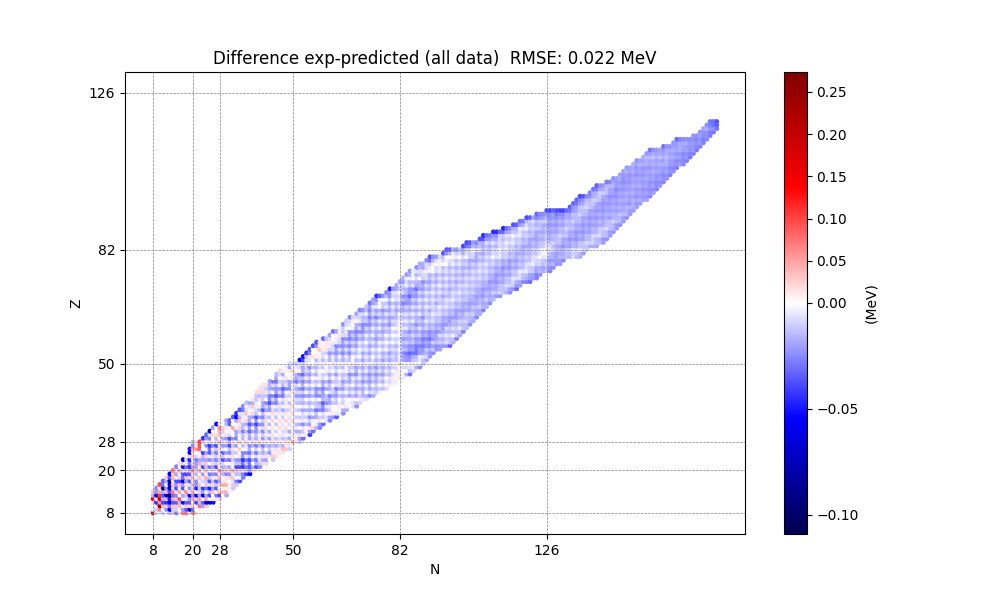
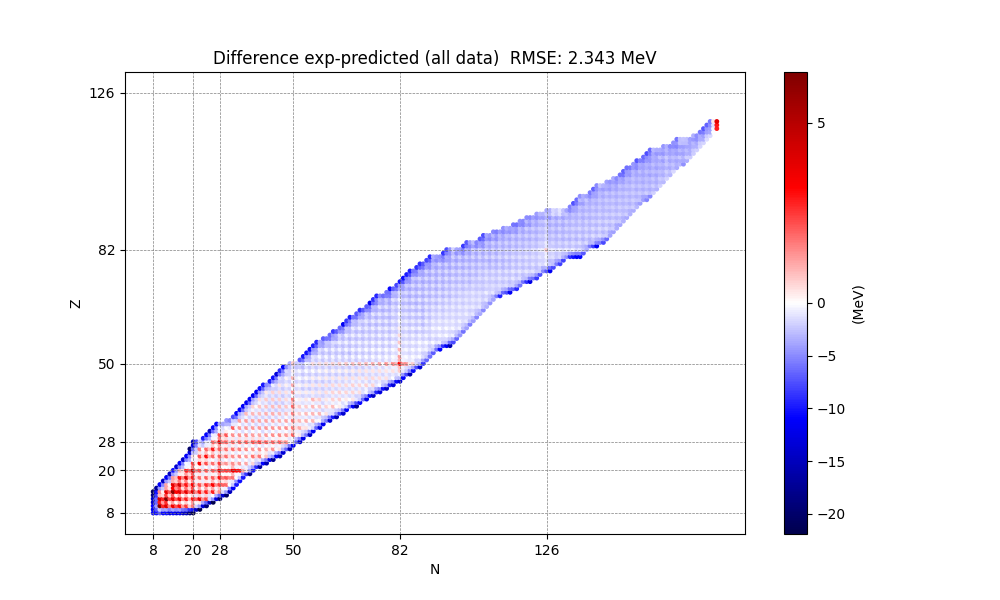
config.yaml created + nuclear masses plots when predicting

diff --git a/CNN-I3.py b/CNN-I3.py
@@ -8,17 +8,21 @@ import matplotlib.pyplot as plt
 from matplotlib.colors import TwoSlopeNorm
 from sklearn.model_selection import train_test_split
 from sklearn.model_selection import KFold
+import yaml
+
+with open('config.yaml', 'r') as file:
+    config = yaml.safe_load(file)
 
 device = torch.device('cuda' if torch.cuda.is_available() else 'cpu')
 print('Training on:', device)
 
-csv_file = 'data/mass2016_cleaned.csv'  
+csv_file = config['data']['csv_file'] 
 data = pd.read_csv(csv_file, delimiter=';')
-data_feature = 'bind_ene_total'
-num_epochs = 100000
-patience = 3000
-learning_rate = 0.002
-optimizer_name = 'Adamax'
+data_feature = config['data']['data_feature']
+num_epochs = config['training']['num_epochs']
+patience = config['training']['patience']
+learning_rate = config['training']['learning_rate']
+optimizer_name = config['training']['optimizer_name']
 
 
 def create_5x5_neighborhood(data, idx, data_feature):
@@ -71,14 +75,17 @@ targets_tensor = torch.tensor(np.array(targets), dtype=torch.float32).view(-1, 1
 
 indices = np.arange(len(data)) #Original indices in the Dataframe
 train_inputs, test_inputs, train_targets, test_targets, train_indices, test_indices = train_test_split(
-    inputs_tensor,targets_tensor, indices, test_size=0.3, shuffle=True, random_state=42)
+    inputs_tensor,targets_tensor, indices, test_size=config['data']['test_size'], shuffle=True,
+    random_state=config['general']['random_state'])
 
 
 class CNN_I3(nn.Module):
     def __init__(self):
         super(CNN_I3, self).__init__() #We initialize the nn.Module class
-        self.conv1 = nn.Conv2d(in_channels=3, out_channels=16, kernel_size=3, stride=1, padding=1) #Basic features
-        self.conv2 = nn.Conv2d(in_channels=16, out_channels=32, kernel_size=3, stride=1, padding=1) #More complex features
+        self.conv1 = nn.Conv2d(in_channels=3, out_channels=16, kernel_size=config['model']['conv1']['kernel_size'],
+                               stride=config['model']['conv1']['stride'], padding=config['model']['conv1']['padding']) #Basic features
+        self.conv2 = nn.Conv2d(in_channels=16, out_channels=32, kernel_size=config['model']['conv2']['kernel_size'],
+                               stride=config['model']['conv2']['stride'], padding=config['model']['conv2']['padding']) #More complex features
         self.fc = nn.Linear(32 * 5 * 5, 1) #Number of input features=32*5*5=800. Output features=1.
         self.relu = nn.ReLU()
 
@@ -102,10 +109,10 @@ def save_model(model, best_model_state, best_test_rmse, best_epoch, num_epochs):
 
 def load_model(model, best_model_state, best_test_rmse, best_epoch, num_epochs):
     if best_model_state is not None:
-        model.load_state_dict(best_model_state)
+        model.load_state_dict(best_model_state, map_location=device)
         print(f'Model loaded from epoch {best_epoch} with RMSE: {best_test_rmse:.4f} MeV')
     else:
-        model.load_state_dict(torch.load(f'CNN-I3 results/cnn_i3_model_{num_epochs}_epochs.pt'))
+        model.load_state_dict(torch.load(f'CNN-I3 results/cnn_i3_model_{num_epochs}_epochs.pt', map_location=device))
         print('Best model not found. Loading last model')
     return
 
@@ -214,12 +221,10 @@ def plot_differences_nuclear_masses(data, inputs, targets, indices, model, devic
     model.eval() 
     with torch.no_grad():
         outputs = model(inputs.to(device)).cpu().numpy().flatten()
-        outputs = outputs*data['A'].iloc[indices]
         outputs = data['Z'].iloc[indices]*m_H + data['N'].iloc[indices]*m_n - outputs # Calculating atomic masses
         outputs = outputs - data['Z'].iloc[indices]*m_e + data['B_e'].iloc[indices] # Calculating nuclear masses
 
         targets_np = targets.cpu().numpy().flatten()
-        targets_np = targets_np*data['A'].iloc[indices]
         targets_np = data['Z'].iloc[indices]*m_H + data['N'].iloc[indices]*m_n - targets_np # Calculating atomic masses
         targets_np = targets_np - data['Z'].iloc[indices]*m_e + data['B_e'].iloc[indices] # Calculating nuclear masses
 
@@ -234,8 +239,8 @@ def plot_differences_nuclear_masses(data, inputs, targets, indices, model, devic
 
     if 'color_limits' not in color_limits_storage:
         vmin = scatter_data['diff'].min()
-        vcenter = 0 if vmin < 0 and vmax > 0 else (vmin + vmax) / 2
         vmax = scatter_data['diff'].max()
+        vcenter = 0 if vmin < 0 and vmax > 0 else (vmin + vmax) / 2
         color_limits_storage['color_limits'] = (vmin, vcenter, vmax)
     else:
         vmin, vcenter, vmax = color_limits_storage['color_limits']
@@ -288,8 +293,16 @@ plot_differences(data, train_inputs, train_targets, train_indices, model, device
 plot_differences(data, test_inputs, test_targets, test_indices, model, device,
                 'Difference exp-predicted (test set)', 'CNN-I3 results/CNN-I3_diff_scatter_test.png', best_test_rmse)
 
+# Now we convert total binding energy predictions into nuclear mass predictions
+color_limits_storage = {}
 plot_differences_nuclear_masses(data, inputs_tensor, targets_tensor, range(len(data)), model, device,
-                'Difference exp-predicted (all data) nuclear masses', 'CNN-I3 results/CNN-I3_diff_scatter_nuclear_masses.png', best_test_rmse)
+                                'Difference exp-predicted (all data) nuclear masses', 'CNN-I3 results/CNN-I3_diff_scatter_nuclear_masses.png', best_test_rmse)
+
+plot_differences_nuclear_masses(data, train_inputs, train_targets, train_indices, model, device,
+                                'Difference exp-predicted (training set) nuclear masses', 'CNN-I3 results/CNN-I3_diff_scatter_train_nuclear_masses.png', best_test_rmse)
+
+plot_differences_nuclear_masses(data, test_inputs, test_targets, test_indices, model, device,
+                                'Difference exp-predicted (test set) nuclear masses', 'CNN-I3 results/CNN-I3_diff_scatter_test_nuclear_masses.png', best_test_rmse)
 
 
 # Learning rates study
@@ -315,7 +328,7 @@ for lr in learning_rates:
     plt.ylim(0, max_value) 
     plt.legend()
     plt.grid()
-    plt.savefig(f'CNN-I3 results/CNN-I3_evolution.png')
+    plt.savefig(os.path.join(output_folder, f'CNN-I3_evolution_lr_{lr}.png'))
     plt.close()
     
     color_limits_storage = {}
@@ -333,8 +346,8 @@ for lr in learning_rates:
     
 
 # K-folding
-n_splits = 5
-kf = KFold(n_splits=n_splits, shuffle=True, random_state=42)
+n_splits = config['kfolding']['n_splits']
+kf = KFold(n_splits=n_splits, shuffle=True, random_state=config['general']['random_state'])
 
 rmse_train_list = []
 rmse_test_list = []

diff --git a/CNN-I4.py b/CNN-I4.py
@@ -8,17 +8,21 @@ import matplotlib.pyplot as plt
 from matplotlib.colors import TwoSlopeNorm
 from sklearn.model_selection import train_test_split
 from sklearn.model_selection import KFold
+import yaml
+
+with open('config.yaml', 'r') as file:
+    config = yaml.safe_load(file)
 
 device = torch.device('cuda' if torch.cuda.is_available() else 'cpu')
 print('Training on:', device)
 
-csv_file = 'data/mass2016_cleaned.csv'  
+csv_file = config['data']['csv_file'] 
 data = pd.read_csv(csv_file, delimiter=';')
-data_feature = 'bind_ene_total'
-num_epochs = 100000
-patience = 3000
-learning_rate = 0.002
-optimizer_name = 'Adamax'
+data_feature = config['data']['data_feature']
+num_epochs = config['training']['num_epochs']
+patience = config['training']['patience']
+learning_rate = config['training']['learning_rate']
+optimizer_name = config['training']['optimizer_name']
 
 
 def create_5x5_neighborhood(data, idx, data_feature):
@@ -74,14 +78,17 @@ targets_tensor = torch.tensor(np.array(targets), dtype=torch.float32).view(-1, 1
 
 indices = np.arange(len(data)) #Original indices in the Dataframe
 train_inputs, test_inputs, train_targets, test_targets, train_indices, test_indices = train_test_split(
-    inputs_tensor,targets_tensor, indices, test_size=0.3, shuffle=True, random_state=42)
+    inputs_tensor,targets_tensor, indices, test_size=config['data']['test_size'], shuffle=True,
+    random_state=config['general']['random_state'])
 
 
 class CNN_I4(nn.Module):
     def __init__(self):
         super(CNN_I4, self).__init__() #We initialize the nn.Module class
-        self.conv1 = nn.Conv2d(in_channels=4, out_channels=16, kernel_size=3, stride=1, padding=1) #Basic features
-        self.conv2 = nn.Conv2d(in_channels=16, out_channels=32, kernel_size=3, stride=1, padding=1) #More complex features
+        self.conv1 = nn.Conv2d(in_channels=4, out_channels=16, kernel_size=config['model']['conv1']['kernel_size'],
+                               stride=config['model']['conv1']['stride'], padding=config['model']['conv1']['padding']) #Basic features
+        self.conv2 = nn.Conv2d(in_channels=16, out_channels=32, kernel_size=config['model']['conv2']['kernel_size'],
+                               stride=config['model']['conv2']['stride'], padding=config['model']['conv2']['padding']) #More complex features
         self.fc = nn.Linear(32 * 5 * 5, 1) #Number of input features=32*5*5=800. Output features=1.
         self.relu = nn.ReLU()
 
@@ -105,10 +112,10 @@ def save_model(model, best_model_state, best_test_rmse, best_epoch, num_epochs):
 
 def load_model(model, best_model_state, best_test_rmse, best_epoch, num_epochs):
     if best_model_state is not None:
-        model.load_state_dict(best_model_state)
+        model.load_state_dict(best_model_state, map_location=device)
         print(f'Model loaded from epoch {best_epoch} with RMSE: {best_test_rmse:.4f} MeV')
     else:
-        model.load_state_dict(torch.load(f'CNN-I4 results/cnn_i4_model_{num_epochs}_epochs.pt'))
+        model.load_state_dict(torch.load(f'CNN-I4 results/cnn_i4_model_{num_epochs}_epochs.pt', map_location=device))
         print('Best model not found. Loading last model')
     return
 
@@ -235,8 +242,8 @@ def plot_differences_nuclear_masses(data, inputs, targets, indices, model, devic
 
     if 'color_limits' not in color_limits_storage:
         vmin = scatter_data['diff'].min()
-        vcenter = 0 if vmin < 0 and vmax > 0 else (vmin + vmax) / 2
         vmax = scatter_data['diff'].max()
+        vcenter = 0 if vmin < 0 and vmax > 0 else (vmin + vmax) / 2
         color_limits_storage['color_limits'] = (vmin, vcenter, vmax)
     else:
         vmin, vcenter, vmax = color_limits_storage['color_limits']
@@ -289,8 +296,16 @@ plot_differences(data, train_inputs, train_targets, train_indices, model, device
 plot_differences(data, test_inputs, test_targets, test_indices, model, device,
                 'Difference exp-predicted (test set)', 'CNN-I4 results/CNN-I4_diff_scatter_test.png', best_test_rmse)
 
+# Now we convert total binding energy predictions into nuclear mass predictions
+color_limits_storage = {}
 plot_differences_nuclear_masses(data, inputs_tensor, targets_tensor, range(len(data)), model, device,
-                'Difference exp-predicted (all data) nuclear masses', 'CNN-I4 results/CNN-I4_diff_scatter_nuclear_masses.png', best_test_rmse)
+                                'Difference exp-predicted (all data) nuclear masses', 'CNN-I4 results/CNN-I4_diff_scatter_nuclear_masses.png', best_test_rmse)
+
+plot_differences_nuclear_masses(data, train_inputs, train_targets, train_indices, model, device,
+                                'Difference exp-predicted (training set) nuclear masses', 'CNN-I4 results/CNN-I4_diff_scatter_train_nuclear_masses.png', best_test_rmse)
+
+plot_differences_nuclear_masses(data, test_inputs, test_targets, test_indices, model, device,
+                                'Difference exp-predicted (test set) nuclear masses', 'CNN-I4 results/CNN-I4_diff_scatter_test_nuclear_masses.png', best_test_rmse)
 
 
 # Learning rates study
@@ -316,7 +331,7 @@ for lr in learning_rates:
     plt.ylim(0, max_value) 
     plt.legend()
     plt.grid()
-    plt.savefig(f'CNN-I4 results/CNN-I4_evolution.png')
+    plt.savefig(os.path.join(output_folder, f'CNN-I4_evolution_lr_{lr}.png'))
     plt.close()
     
     color_limits_storage = {}
@@ -334,8 +349,8 @@ for lr in learning_rates:
     
 
 # K-folding
-n_splits = 5
-kf = KFold(n_splits=n_splits, shuffle=True, random_state=42)
+n_splits = config['kfolding']['n_splits']
+kf = KFold(n_splits=n_splits, shuffle=True, random_state=config['general']['random_state'])
 
 rmse_train_list = []
 rmse_test_list = []
